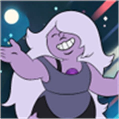
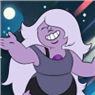
interpolacao bilenear

diff --git a/decompress.m b/decompress.m
@@ -3,31 +3,42 @@ function decompress(originalImg, k, h)
 	n=columns(original);
 	m = n + (n-1)*k;
 	D=zeros(m,m,3);
-	%columns(D)
-	%columns(original)
-	%columns(D(1:k+1:end, 1:k+1:end,:))
 	D(1:k+1:end, 1:k+1:end, :) = original;
 
-	for i = 1:h:m-h
-		for j = 1:h:m-h
-			for w = 1:3
-				D_ = D(:,:,w);
-				A = bilinear(D_, h, i, j);
-				%mudar a funcao p passar o quadrado e interpolar tudo que ta la
-				pij=interpolaLinear(A,i,i+h,j,j+h);
+	for w = 1:3
+		D_ = D(:, :, w);
+		printf("Interpolando cor %d ...\n", w);
+		for i=1:h:m
+			for j = 1:h:m
+				A = bilinear(D_, h, i, j, m);
+				%printf("(%d, %d) => %d \n", i, j, D_(i, j));
+				for i_ = i:min(i+h-1, m)
+					for j_ = j:min(j+h-1, m)
+						pij = interpolaLinear(A, i_, i, j_, j);
+
+						%if i == i_ && j == j_
+						%	printf("- (%d, %d)=> %d (Esperado %d)\n", i_, j_, pij, D_(i_, j_));
+						%end
+						D(i_, j_, w) = uint8(pij);
+					end
+				end
+				%printf("\n");
 			end
 		end
+		%disp("-----------------")
 	end
+	printf("Salvando imagem..\n");
+	D = uint8(D);
 
 	imwrite(D,"descomprimida.png");
 end
-function A = bilinear(M, h, xi, yj)
-	
-	%VOLTA AQUI P VER O NEGOCIO
-	%garantir q xi1 e tals ta dentro da matriz ainda
-	
-	xi1 = xi+h;
-	yj1 = yj+h;
+function A = bilinear(M, h, xi, yj, m)
+	xi1 = min(xi+h-1, m);
+	yj1 = min(yj+h-1, m);
+
+	%printf("Ponto interpoladores: (x_i, y_i) = (%d, %d)\n", xi, yj)
+	%printf("Ponto interpoladores + 1: (x_{i+1}, y_{i+1}) = (%d, %d)\n", xi1, yj1)
+	%printf("Valores nas matrizes: %d %d %d %d\n", M(xi,yj), M(xi,yj1), M(xi1,yj), M(xi1,yj1) )
 
 	F = [ M(xi,yj) M(xi,yj1) M(xi1,yj) M(xi1,yj1)];
 
@@ -35,14 +46,11 @@ function A = bilinear(M, h, xi, yj)
 		 1 0 h 0;
 		 1 h 0 0;
 		 1 h h h*h];
-	%solucao de F = Hx (x os coef a)
-
-	A = F * inv(H);
+	A = inv(H) * F';
 endfunction
 
 
 function pij = interpolaLinear(A,x,xi,y,yj)
-	v = [1 x-xi y-yj (x-xi)*(y-yj)];
-	pij = A * v';
+	v = [1; x-xi; y-yj; (x-xi)*(y-yj)];
+	pij = A' * v;
 endfunction
-
